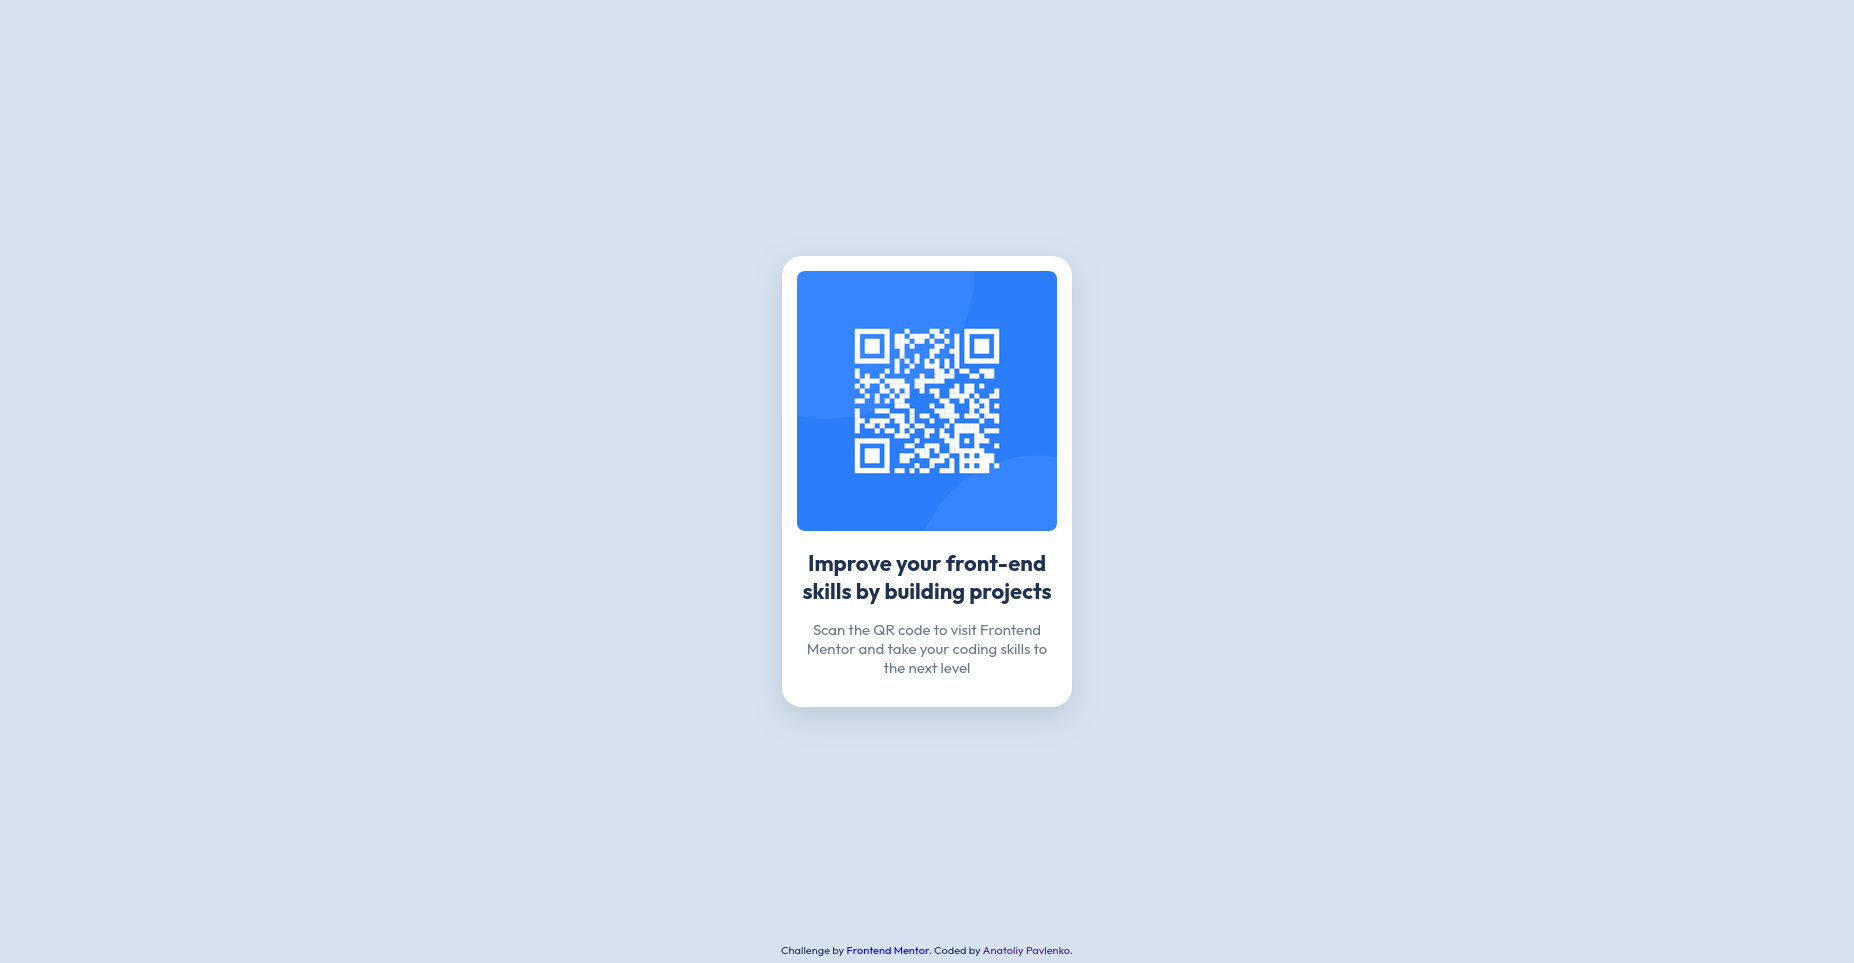
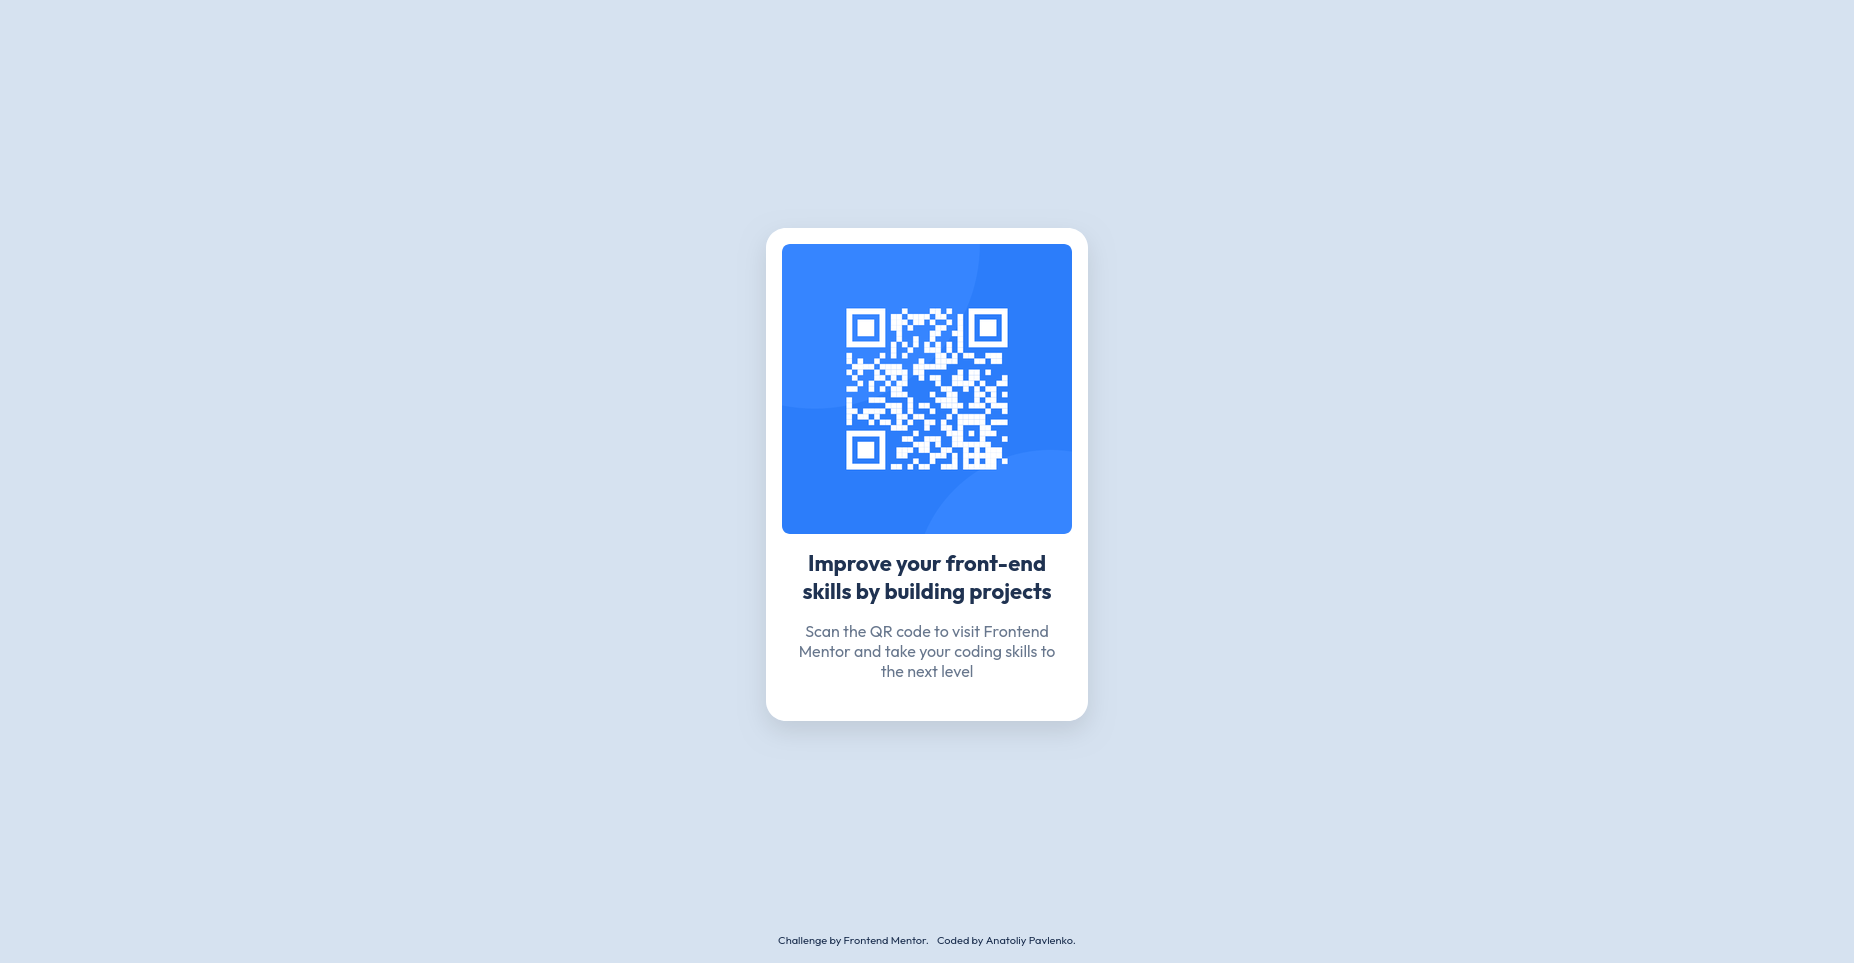
docs: Add the Refactoring section and update the screenshot

Changed region(s): [[0.3997, 0.2181, 0.5841, 0.7477], [0.4304, 0.9657, 0.5841, 0.9969]]

diff --git a/newbie/QR-code-component/README.md b/newbie/QR-code-component/README.md
@@ -13,8 +13,8 @@ This is a solution to the [QR code component challenge on Frontend Mentor](https
   - [Continued development](#continued-development)
   - [Useful resources](#useful-resources)
   - [AI Collaboration](#ai-collaboration)
+  - [Refactoring](#refactoring)
 - [Author](#author)
-- [Acknowledgments](#acknowledgments)
 
 ## Overview
 
@@ -87,6 +87,16 @@ And yes it made a good point about my CSS styling at list e.g:
 So later I will make refactoring of my original solution with AI assistance.
 
 The main point is I got the result without AI and I'm proud of it. Actually it help to learn even more.
+
+### Refactoring
+
+After I've got an AI review from Frontend Mentor I've made these changes:
+
+- Made the text for the `alt` attribute more appropriate.
+- Made the font size responsive by swap `px` units to `rem` units.
+- Used the `min-width: 100vh` instead of the fix `width: 100vh`.
+- Made the image responsive by using `100%` instead the fix width.
+- Removed the absolute positioning from the footer and used Flexbox combined with the `margin-top: auto` to move it to the bottom of the screen.
 
 ## Author
 
